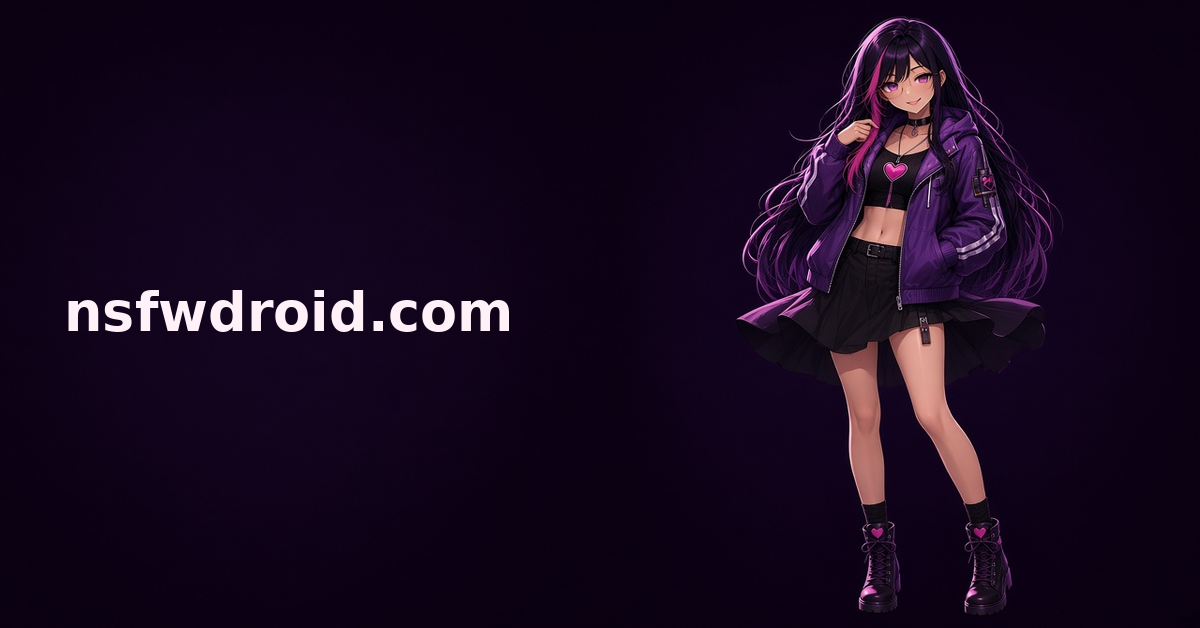
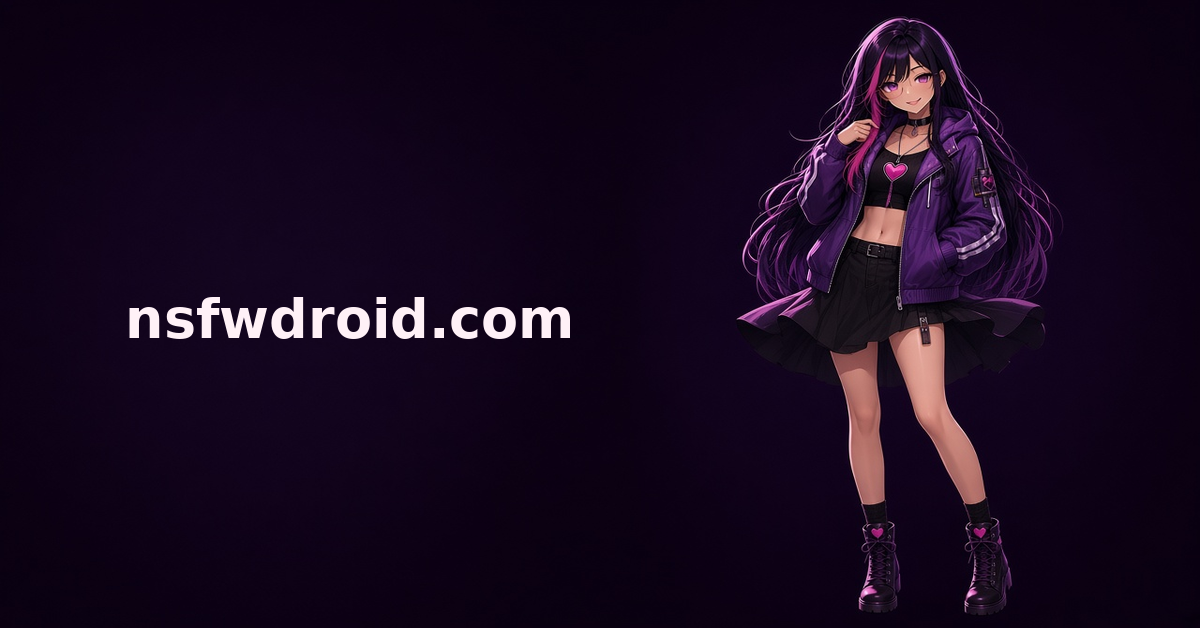
Center the Vesper ad URL and drop the borrowed game cover.
The phone ad is smaller and shows only nsfwdroid.com. A catalog game cover is someone else's art and is not safe to run as an ExoClick creative.

Changed region(s): [[0.0308, 0.4538, 0.4933, 0.5446]]

diff --git a/docs/exoclick-ad-creatives.md b/docs/exoclick-ad-creatives.md
@@ -5,7 +5,7 @@ Three concepts for buying traffic to nsfwdroid.com. The URL is set in type, not 
 | File | What it is |
 | --- | --- |
 | `assets/marketing/exoclick/nsfwdroid-standard-1200x628.png` | Site name only, on the brand background. Also `nsfwdroid-standard-300x250.png`. |
-| `assets/marketing/exoclick/nsfwdroid-vesper-skirt-1200x628.png` | Site name on the left, Vesper on the right. Skirt is flared. The lifted-skirt pose was blocked by the image generator. |
-| `assets/marketing/exoclick/nsfwdroid-phone-neon-strip-1200x628.png` | Site name on the left. Landscape phone on the right shows the live catalog cover for **NEON STRIP**. |
+| `assets/marketing/exoclick/nsfwdroid-vesper-skirt-1200x628.png` | Site name centered in the open space, Vesper on the right. Skirt is flared. The lifted-skirt pose was blocked by the image generator. |
+| `assets/marketing/exoclick/nsfwdroid-phone-1200x628.png` | Site name on the left, smaller landscape phone on the right. The screen is nsfwdroid.com only. Catalog game art is not used. |
 
 Earlier size cuts from the standing key art (`nsfwdroid-300x250.png`, `728x90`, `160x600`, `320x50`, `300x600`) are still in this folder.
